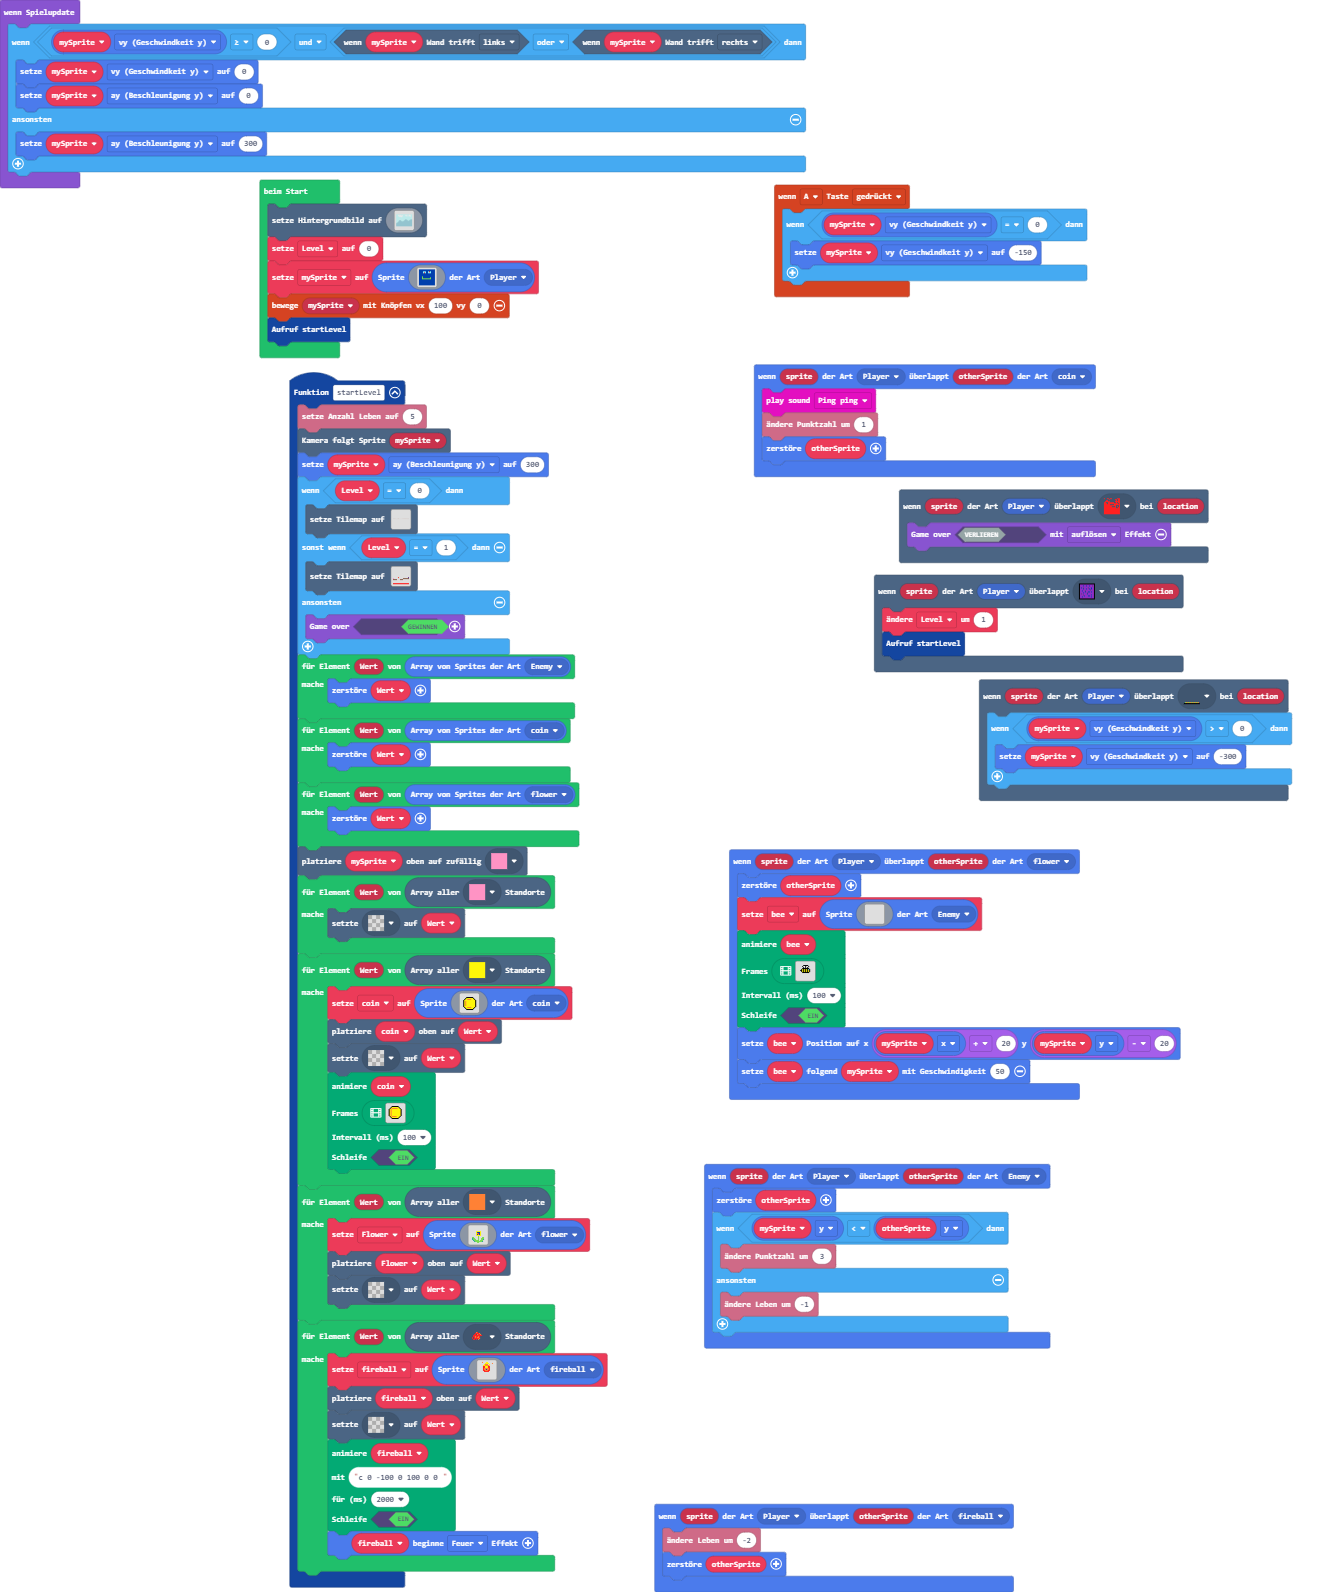
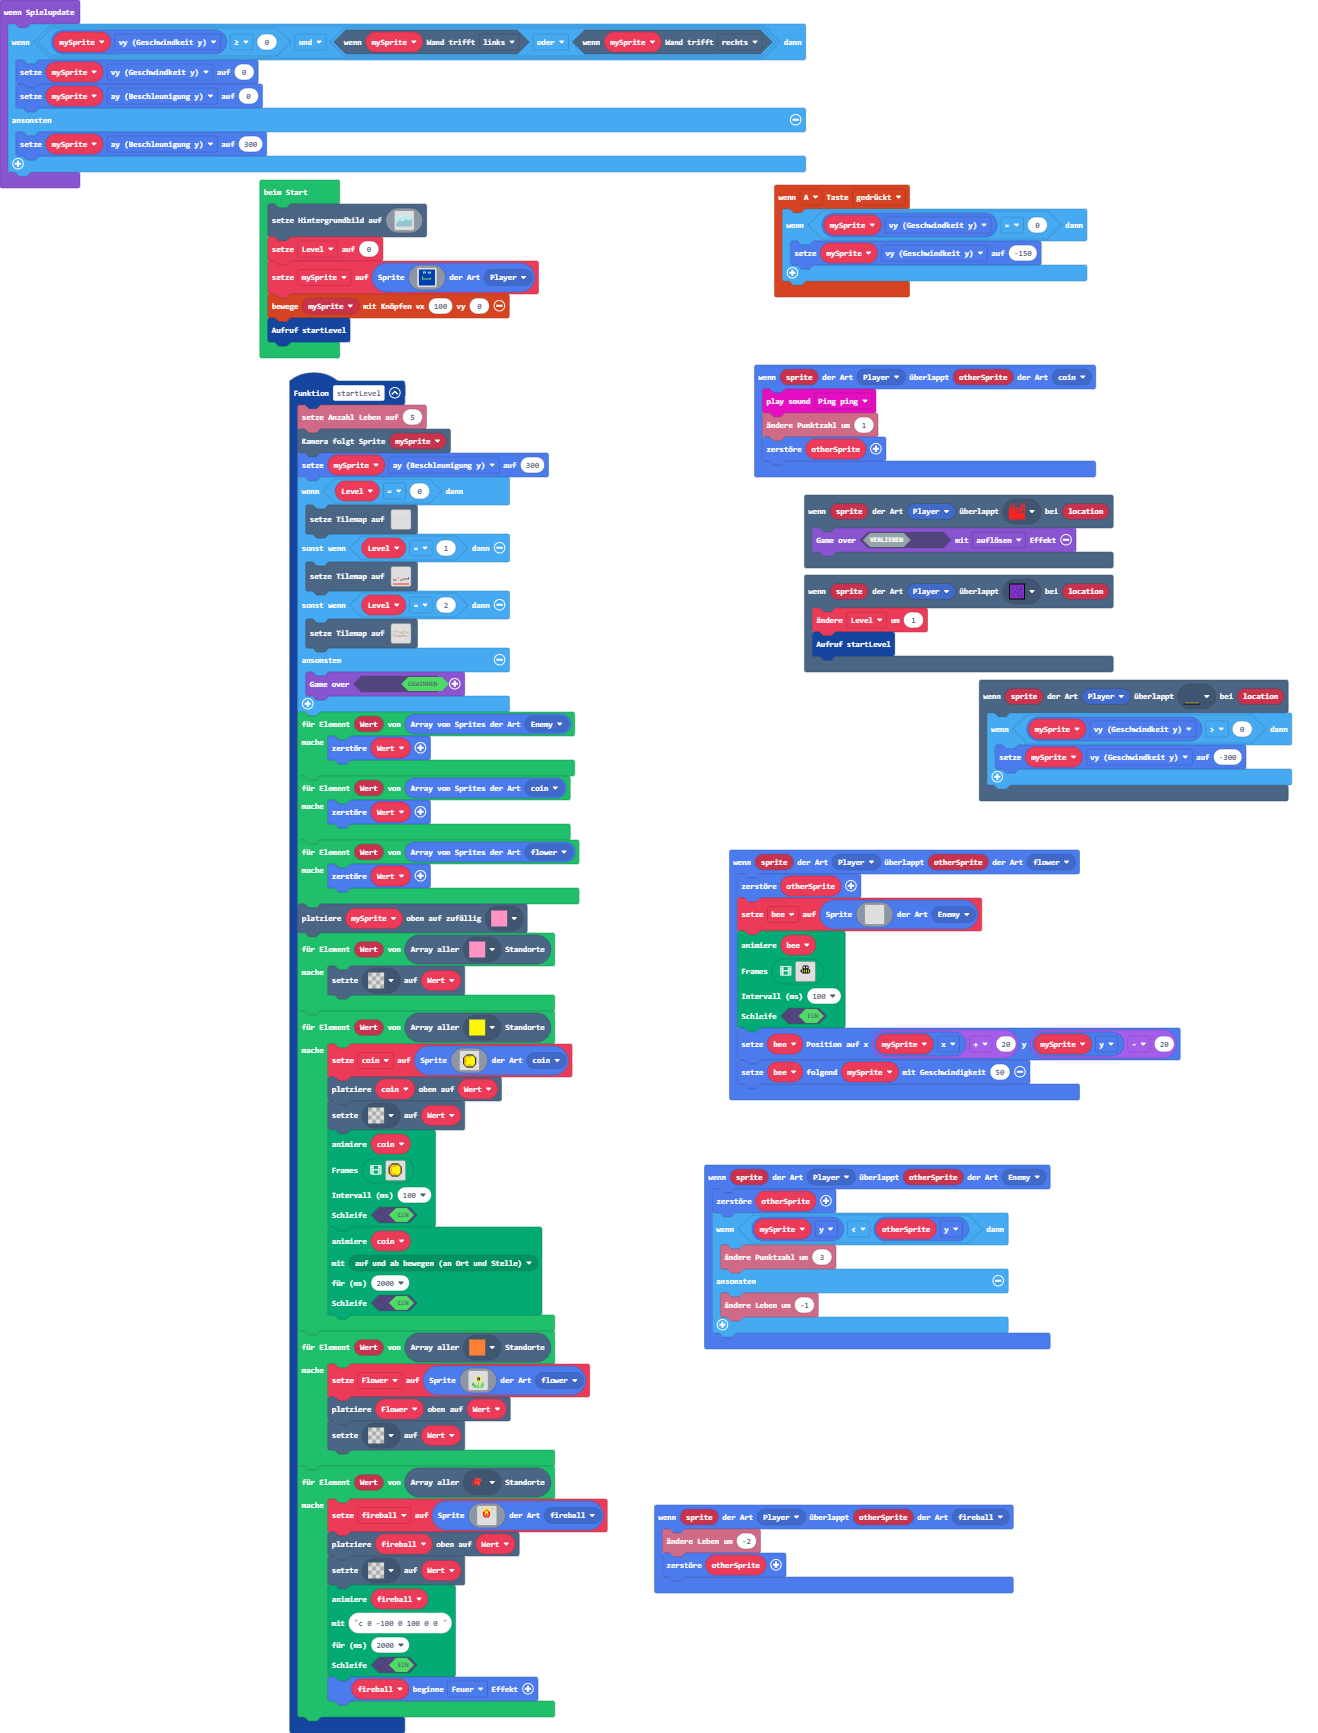
Neue Level

Changed region(s): [[0.0, 0.0, 0.9954, 1.0]]

diff --git a/tilemap.g.ts b/tilemap.g.ts
@@ -5,8 +5,6 @@ namespace myTiles {
     //% fixedInstance jres blockIdentity=images._tile
     export const tile1 = image.ofBuffer(hex``);
     //% fixedInstance jres blockIdentity=images._tile
-    export const tile2 = image.ofBuffer(hex``);
-    //% fixedInstance jres blockIdentity=images._tile
     export const tile3 = image.ofBuffer(hex``);
     //% fixedInstance jres blockIdentity=images._tile
     export const tile4 = image.ofBuffer(hex``);
@@ -20,6 +18,14 @@ namespace myTiles {
     export const tile8 = image.ofBuffer(hex``);
     //% fixedInstance jres blockIdentity=images._tile
     export const tile9 = image.ofBuffer(hex``);
+    //% fixedInstance jres blockIdentity=images._tile
+    export const tile10 = image.ofBuffer(hex``);
+    //% fixedInstance jres blockIdentity=images._tile
+    export const tile2 = image.ofBuffer(hex``);
+    //% fixedInstance jres blockIdentity=images._tile
+    export const tile11 = image.ofBuffer(hex``);
+    //% fixedInstance jres blockIdentity=images._tile
+    export const tile12 = image.ofBuffer(hex``);
 
     helpers._registerFactory("tilemap", function(name: string) {
         switch(helpers.stringTrim(name)) {
@@ -42,25 +48,6 @@ namespace myTiles {
 . . . . . . . . . . . . . . . . 
 . . . . . . . . . . . . . . . . 
 `, [myTiles.transparency16], TileScale.Sixteen);
-            case "level1":
[1 lines of base64/hex data omitted]
-...............................................................................................................................................................................................................................................................
-...............................................................................................................................................................................................................................................................
-....................................................................................2222222....................................................................................................................................................................
-.............22222222......................................................................222...............................................................................222222..........................................................................22
-...........22...............2222222....................................................................................................................................222222......222222..................................................................222.
-22222222222..........2222222.................................................22222222222222222222................................................................222222.................22222222...........................2..222.........................22...
-...................................2222222..................................22...................22.......................................................2222222..............................222222222.........22222222222....22222.....................2....
-...........................................................................222......................22222.................................22........222222.............................................22222222222..................2222222..............22....
-..........................................22222222...................222..22.........................................2222222222......22222..22222222......................................................................................22222........222.....
-.................................................2222222222......222....222.................................222222222..........222222.........................................................................................................222222..22.......
-..........................................................2222222..................................................................................................................................................................................2222........
-...............................................................................................................................................................................................................................................................
-...............................................................................................................................................................................................................................................................
-...............................................................................................................................................................................................................................................................
-...............................................................................................................................................................................................................................................................
-...............................................................................................................................................................................................................................................................
-`, [myTiles.transparency16,myTiles.tile2,myTiles.tile3,myTiles.tile4,myTiles.tile5,myTiles.tile6,myTiles.tile7,myTiles.tile8], TileScale.Sixteen);
             case "Level2":
             case "Level2":return tiles.createTilemap(hex`1000100000000000000000000000000000000000000000000000000000000000000000000000000000000000000000000000000000000000000000000000000000000000000000000000000000000000000000000000000000000000000000000000000000000000000000000000000000000000000000000000000000000000000000000000000000000000000000000000000000000000000500000000000000000003040000000000000000000101010101010101010100000001010100000000000000000000000000000000000000000000000000000000000000000000000000000000000000000000000000000000000002020202020202020202020202020202`, img`
 . . . . . . . . . . . . . . . . 
@@ -80,6 +67,48 @@ namespace myTiles {
 . . . . . . . . . . . . . . . . 
 . . . . . . . . . . . . . . . . 
 `, [myTiles.transparency16,myTiles.tile2,myTiles.tile3,myTiles.tile4,myTiles.tile8,myTiles.tile9], TileScale.Sixteen);
+            case "level1":
[1 lines of base64/hex data omitted]
+...............................................................................................................................................................................................................................................................
+...............................................................................................................................................................................................................................................................
+....................................................................................2222222....................................................................................................................................................................
+.............22222222......................................................................222...............................................................................222222..........................................................................22
+...........22...............2222222....................................................................................................................................222222......222222..................................................................222.
+22222222222..........2222222.................................................22222222222222222222................................................................222222.................22222222...........................2..222.........................22...
+...................................2222222..................................22...................22.......................................................2222222..............................222222222.........22222222222....22222.....................2....
+...........................................................................222......................22222.................................22........222222.............................................22222222222..................2222222..............22....
+..........................................22222222...................222..22.........................................2222222222......22222..22222222......................................................................................22222........222.....
+.................................................2222222222......222....222.................................222222222..........222222.........................................................................................................222222..22.......
+..........................................................2222222..................................................................................................................................................................................2222........
+...............................................................................................................................................................................................................................................................
+...............................................................................................................................................................................................................................................................
+...............................................................................................................................................................................................................................................................
+...............................................................................................................................................................................................................................................................
+...............................................................................................................................................................................................................................................................
+`, [myTiles.transparency16,myTiles.tile2,myTiles.tile3,myTiles.tile4,myTiles.tile5,myTiles.tile6,myTiles.tile7,myTiles.tile8], TileScale.Sixteen);
+            case "Level3":
[1 lines of base64/hex data omitted]
+..................................................
+..................................................
+..........2222....................................
+..........2.......................................
+..........2.......................................
+2222.222..2....22222............2222..22222.......
+..........2.........222...222222..........2.......
+..........2...............................2.......
+..........................................2.......
+.....................222222...............22222222
+...........................2222...................
+...............................222................
+222...............................................
+..................................................
+222222............................222.............
+........222.......................................
+............222...................................
+...............222.2222.2222.222.222.222..........
+..................................................
+..................................................
+`, [myTiles.transparency16,myTiles.tile2,myTiles.tile3,myTiles.tile4,myTiles.tile5,myTiles.tile6,myTiles.tile7,myTiles.tile8,myTiles.tile9,myTiles.tile10,myTiles.tile11,myTiles.tile12], TileScale.Sixteen);
         }
         return null;
     })
@@ -89,8 +118,6 @@ namespace myTiles {
             case "transparency16":return transparency16;
             case "tile":
             case "tile1":return tile1;
-            case "tile0":
-            case "tile2":return tile2;
             case "tile4":
             case "tile3":return tile3;
             case "Portal":
@@ -105,6 +132,14 @@ namespace myTiles {
             case "tile8":return tile8;
             case "tile10":
             case "tile9":return tile9;
+            case "tile14":
+            case "tile10":return tile10;
+            case "tile0":
+            case "tile2":return tile2;
+            case "tile15":
+            case "tile11":return tile11;
+            case "tile13":
+            case "tile12":return tile12;
         }
         return null;
     })

diff --git a/main.ts b/main.ts
@@ -117,6 +117,8 @@ function startLevel () {
         tiles.setTilemap(tilemap`level1`)
     } else if (Level == 1) {
         tiles.setTilemap(tilemap`Level2`)
+    } else if (Level == 2) {
+        tiles.setTilemap(tilemap`Level3`)
     } else {
         game.over(true)
     }
@@ -362,6 +364,12 @@ function startLevel () {
             . . . . . . . . . . . . . . . . 
             `],
         100,
+        true
+        )
+        animation.runMovementAnimation(
+        coin,
+        animation.animationPresets(animation.bobbing),
+        2000,
         true
         )
     }
